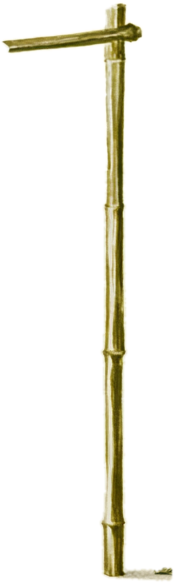
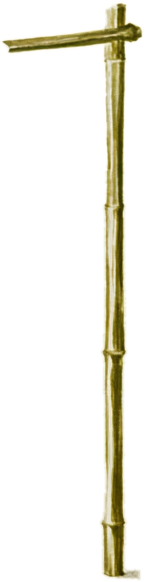
feat(app): Garden2 decor positions (R538-R540): lantern off the left edge, water basin lower and clear of the pothos pole

Changed region(s): [[0.0276, 0.0, 0.9931, 1.0]]

diff --git a/app/src/garden2/layout.ts b/app/src/garden2/layout.ts
@@ -9,7 +9,7 @@ export const COIN_PLANTS = {"SKR": "mandarin", "stORE": "store", "hSOL": "pothos
 /** Each plant's box on the canvas (its layers are cut to this size) and its stage range: companions 0..14 (0 = bare ground), trees 1..14. */
 export const PLANTS: Record<Plant2, { x: number; y: number; w: number; h: number; first: number; last: number }> = {"maple": {"x": 597, "y": 446, "w": 276, "h": 263, "first": 0, "last": 14}, "store": {"x": 618, "y": 5, "w": 639, "h": 708, "first": 0, "last": 14}, "mandarin": {"x": 143, "y": 35, "w": 637, "h": 705, "first": 0, "last": 14}, "pothos": {"x": 1126, "y": 381, "w": 204, "h": 260, "first": 0, "last": 14}, "orchid": {"x": 928, "y": 478, "w": 265, "h": 384, "first": 0, "last": 14}, "azalea": {"x": 71, "y": 532, "w": 319, "h": 287, "first": 0, "last": 14}}
 /** The bamboo stand drawn right after `store` (R497G: its pole in front of the stORE crown); the pothos cords right before `pothos`. */
-export const OVERLAYS = {"stand": {"file": "stand.png", "x": 1154, "y": 195, "w": 174, "h": 583, "after": "store"}, "cords": {"file": "cords.png", "x": 1179, "y": 241, "w": 59, "h": 218, "before": "pothos"}} as const
+export const OVERLAYS = {"stand": {"file": "stand.png", "x": 1154, "y": 195, "w": 145, "h": 582, "after": "store"}, "cords": {"file": "cords.png", "x": 1179, "y": 241, "w": 59, "h": 218, "before": "pothos"}} as const
 /** The hit grid: CELL canvas px per cell; per plant per stage, row-major bits (MSB first) over its box, set where the layer is opaque. */
 export const HIT_CELL = 16
[1 lines of base64/hex data omitted]
